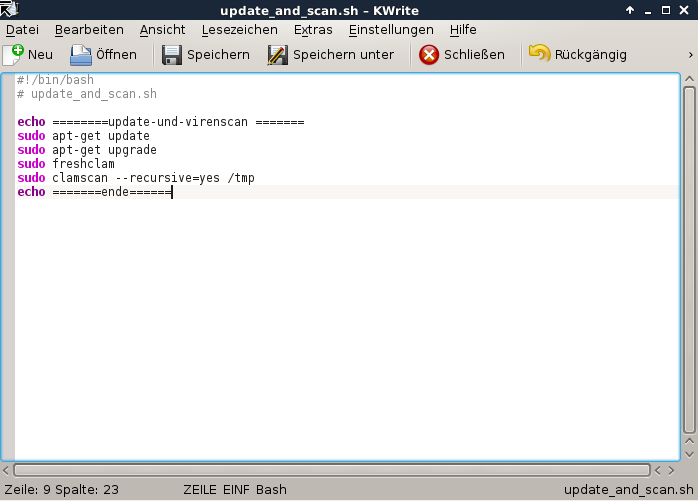
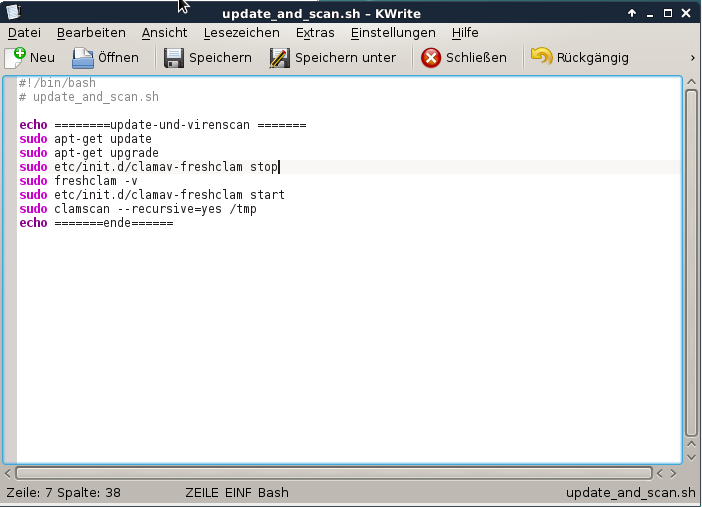
Update update_and_scan

Changed region(s): [[0.0, 0.0, 1.0, 1.0]]

diff --git a/Dokumentation - HTML/2.Übung/Aufgabe9-Automatisierung.html b/Dokumentation - HTML/2.Übung/Aufgabe9-Automatisierung.html
@@ -17,7 +17,12 @@
 			<br />
 			b)
 			<br />
-			<code># sudo freshclam</code>
+			um den scan ausführen zu können muss erst der deamon deaktiviert werden.
+			 <code>sudo /etc/init.d/clamav-freshclam stop</code>
+			<br />
+			<code>sudo freshclam -v</code>
+			<br />
+			<code>sudo /etc/init.d/clamav-freshclam start</code>
 			<br />
 			c)
 			<br />
